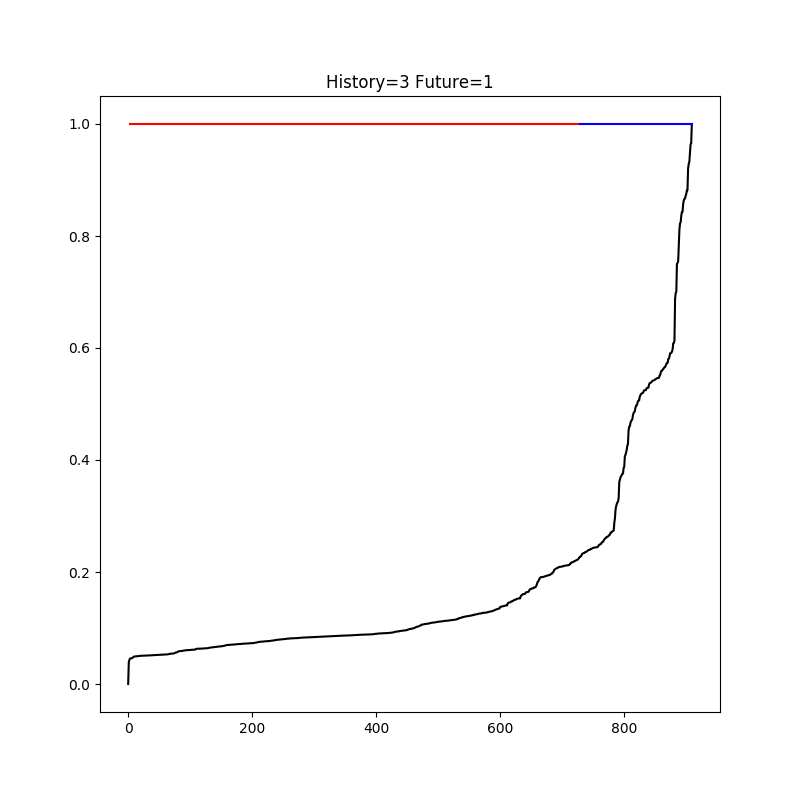
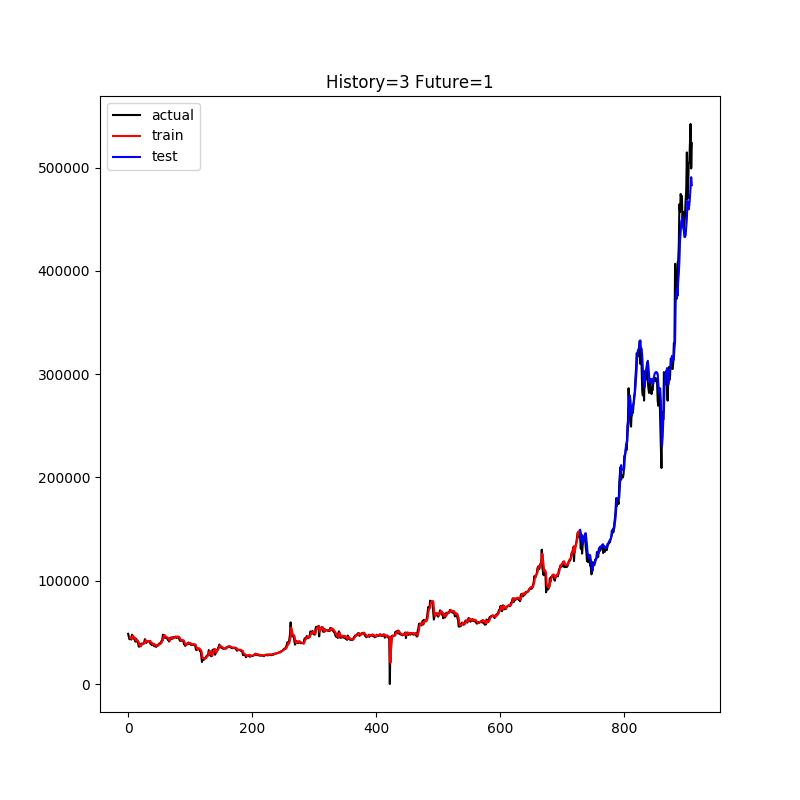
update datas

diff --git a/bitcoin2.py b/bitcoin2.py
@@ -9,10 +9,19 @@ from keras.models import Sequential
 from keras.layers.core import Dense, Activation
 from keras.layers.recurrent import LSTM
 
+class PredictResult :    
+    def __init__(self, accurancy: float, benefit: int):
+        self.accurancy = accurancy
+        self.benefit   = benefit
+
+
 class Prediction :
 
     def __init__(self):
+        self.pre_dataset = None
         self.dataset = None
+        self.normalize_val = None
+
         # 算出する値たち
         self.model = None
         self.train_predict = None
@@ -23,18 +32,22 @@ class Prediction :
         self.steps_in_future = 1
         self.csv_path = './csv/bitcoin_log.csv'
 
+        # 結果
+        self.result = None
+
     def load_dataset(self):
         # データ準備
         dataframe = pd.read_csv(self.csv_path,
                 usecols=['終値'],
-                engine='python').sort_values('終値', ascending=True)
-        self.dataset = dataframe.values
+                engine='python')
+        self.dataset = dataframe.values[::-1]
         self.dataset = self.dataset.astype('float32')
 
         # 標準化
+        self.pre_dataset = dataframe.values[::-1]
+        self.normalize_val = np.max(np.abs(self.dataset))
         self.dataset -= np.min(np.abs(self.dataset))
         self.dataset /= np.max(np.abs(self.dataset))
-
 
     def create_dataset(self):
         X, Y = [], []
@@ -53,44 +66,35 @@ class Prediction :
         # Build neural network
         net = tflearn.input_data(shape=[None, self.steps_of_history, 1])
 
-        # LSTMは時間かかるのでGRU
-        # http://dhero.hatenablog.com/entry/2016/12/02/%E6%9C%80%E5%BC%B1SE%E3%81%A7%E3%82%82%E6%A9%9F%E6%A2%B0%E5%AD%A6%E7%BF%92%E3%81%A7%E3%81%8A%E9%87%91%E3%81%8C%E7%A8%BC%E3%81%8E%E3%81%9F%E3%81%84%E3%80%905%E6%97%A5%E7%9B%AE%E3%83%BBTFLearn%E3%81%A8
         net = tflearn.gru(net, n_units=6)
         net = tflearn.fully_connected(net, 1, activation='linear')
-
-        # 回帰の設定
-        # Adam法で測定
-        # http://qiita.com/TomokIshii/items/f355d8e87d23ee8e0c7a
-        # 時系列分析での予測精度の指標にmean_squareを使っている
-        # mapeが一般的なようだ
-        # categorical_crossentropy
-        # mean_square : 二乗平均平方根
-        net = tflearn.regression(net, optimizer='adam', learning_rate=0.001,
+        net = tflearn.regression(net, optimizer='adam', learning_rate=0.01,
                 loss='mean_square')
 
         # Define model
-        self.model = tflearn.DNN(net, tensorboard_verbose=0)
+        self.model = tflearn.DNN(net, tensorboard_verbose=1)
 
-        # 今回は80%を訓練データセット、20%をテストデータセットとして扱う。
         pos = round(len(X) * (1 - 0.2))
-        # trainX = 0.8, trainY = 0.2, testX = 0.8, testY = 0.2
+        # 8割を訓練データ
         trainX, trainY = X[:pos], Y[:pos]
+        # 2割をテストデータにする
         testX, testY   = X[pos:], Y[pos:]
         
         return trainX, trainY, testX, testY
 
-    def executePredict(self, trainX, trainY, testX, testY):
+    def execute_predict(self, trainX, trainY, testX, testY):
         # Start training (apply gradient descent algorithm)
         # 正規化した訓練、テストデータをそれぞれ入れてfittingする
-        self.model.fit(trainX, trainY, validation_set=0.1, show_metric=True, batch_size=1, n_epoch=50, run_id='btc')
+        self.model.fit(trainX, trainY, validation_set=0.1, show_metric=True, batch_size=32, n_epoch=150, run_id='btc')
 
         # predict
-        self.train_predict = self.model.predict(trainX)
-        self.test_predict = self.model.predict(testX)
-
+        # 訓練データに基づく再予測
+        self.train_predict = self.model.predict(trainX) * self.normalize_val
+        # テストデータに基づく実予測
+        self.test_predict = self.model.predict(testX) * self.normalize_val
         print('Accuracy: {0:.3f}'.format(self.model.evaluate(testX, testY)[0]))
 
-    def showResult(self):
+    def plot_graph(self):
         # plot train data
         train_predict_plot = np.empty_like(self.dataset)
         train_predict_plot[:, :] = np.nan
@@ -106,18 +110,47 @@ class Prediction :
         # plot show res
         plt.figure(figsize=(8, 8))
         plt.title('History={} Future={}'.format(self.steps_of_history, self.steps_in_future))
-        plt.plot(self.dataset, label="actual", color="k")
+        plt.plot(self.pre_dataset, label="actual", color="k")
         plt.plot(train_predict_plot, label="train", color="r")
         plt.plot(test_predict_plot, label="test", color="b")
+        # 凡例を表示
+        plt.legend()
         plt.savefig('result.png')
-        plt.show()
+    
+    def calc_result(self):
+        # 最後の30日で計算する
+        span_date = 30
+        # 1日後の価格と比較する
+        time_span = 1
+        predict_last = self.test_predict[-30:]
+        actual_last = self.pre_dataset[-30:]
+        total_benefit = 0
+        
+        for i in range(len(predict_last)):
+            predict_price = predict_last[i][0]
+            actual_price = actual_last[i][0]
 
+            compare_predict_index = i + time_span
+            if compare_predict_index < len(predict_last):
+                compare_predict_price = predict_last[compare_predict_index][0]
+                is_up = compare_predict_price - predict_price > 0
+                if is_up:
+                    margin_price = actual_last[compare_predict_index][0] - actual_last[i][0]
+                    total_benefit += margin_price
+                    print("上がるので買います、翌日に売ると利益は%d円です" % margin_price)
+
+        print("結果として %d円儲かりました" % total_benefit)
+
+    def execute(self):
+        trainX, trainY, testX, testY = self.setup()
+        self.execute_predict(trainX, trainY, testX, testY)
+        self.plot_graph()
+        self.calc_result()
+        
 
 if __name__ == "__main__":
 
     prediction = Prediction()
-    trainX, trainY, testX, testY = prediction.setup()
-    prediction.executePredict(trainX, trainY, testX, testY)
-    prediction.showResult()
+    prediction.execute()
 
 
